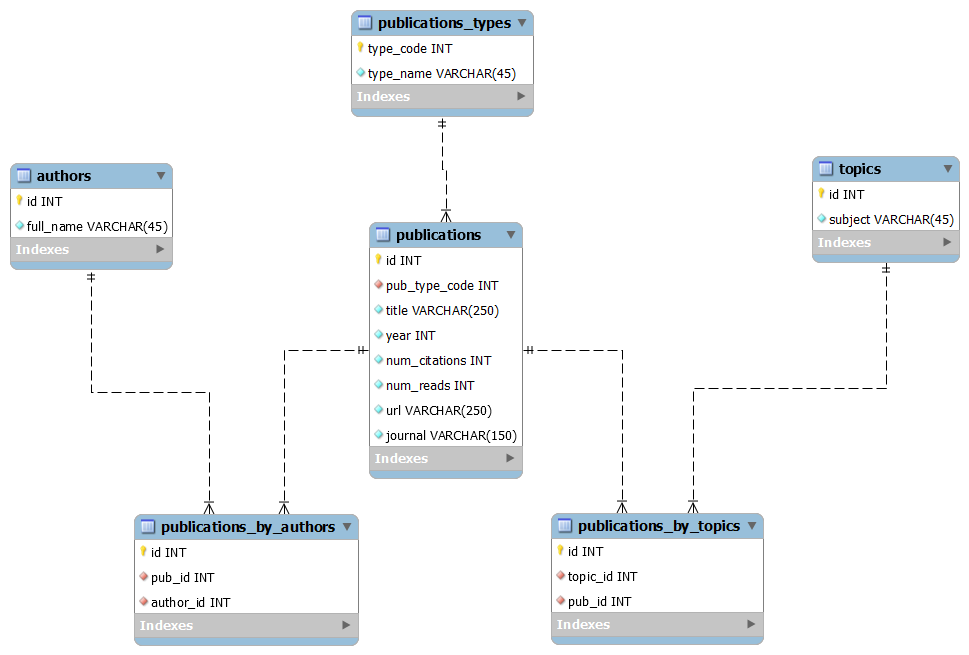
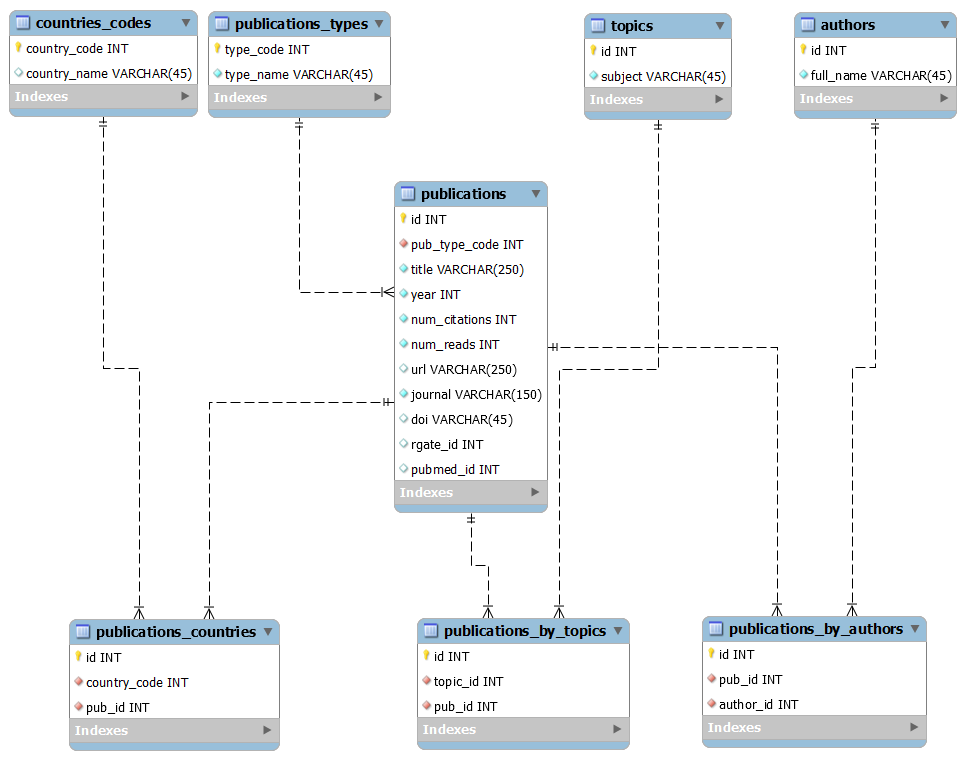
updates regarding pubmed, additional tables and the operation

diff --git a/README.md b/README.md
@@ -1,7 +1,9 @@
 # Program goal
-The aim of the program is to extract data from the ResearchGate site (https://www.researchgate.net/) about articles in the energy-market.
-The chosen pages provide information about the title, abstract, authors, citations, publication date and journals.
-Based on this data we wish to gain a perspective on the energy-market, its status and the new directions that are being explored.
+The aim of the program is to extract data from the ResearchGate site (https://www.researchgate.net/) about any topic.
+The chosen pages provide information about the title, authors, citations, reads, publication year and publication name and type.
+
+In addition, we use Pubmed database to get complementary data about doi (which is a unique universal identifier), and authors' countries. 
+Based on this data we wish to gain a perspective on the topic, its status and the new directions that are being explored.
 
 ## Installation
 The program has been developed in Pycharm IDE, using Selenium web driver and Beautifulsoup
@@ -25,7 +27,7 @@ Here's the ERD diagram:
 ### Tables: 
 1. publications: 
      Columns:
-      - id - INT - primary key: identifier number from the publication's URL
+      - id - INT - primary key: internal technical index
       - pub_type_code - INT - code of publication type
       - title - VARCHAR(150) - publication title
       - year - INT - year of publication
@@ -33,6 +35,9 @@ Here's the ERD diagram:
       - reads - INT - number of publication reads
       - url - VARCHAR(150) - url of publication
       - journal - VARCHAR(45) - journal name
+      - doi - universal identifier
+      - rgate_id - researchgate id - internal identifier of the publication
+      - pubmed_id - Pubmed internal identifier of the publication
 
    2. publication_types
         Columns:
@@ -61,6 +66,21 @@ Here's the ERD diagram:
        - id (auto - increment) - INT - primary key: technical index 
        - full_name - VARCHAR(45) - author's full name
 
+    7. Countries_codes
+       - id - internal index - PK
+       - country_code
+       - country_name
+
+    8. publications_countries
+       - id
+       - country_code
+       - pub_id
+
 ### Schema installation instructions:
 The program requires the creation of the above DB tables. 
 For this, the script file data_mining_db_creation.sql should be run in advance.
+
+### Operating the program
+One can run the program by passing the <number of pages> and the <requested topic>.
+For example, from command line:
+python .\Data_Mining_Project.py 3 "ice nucleation" 
